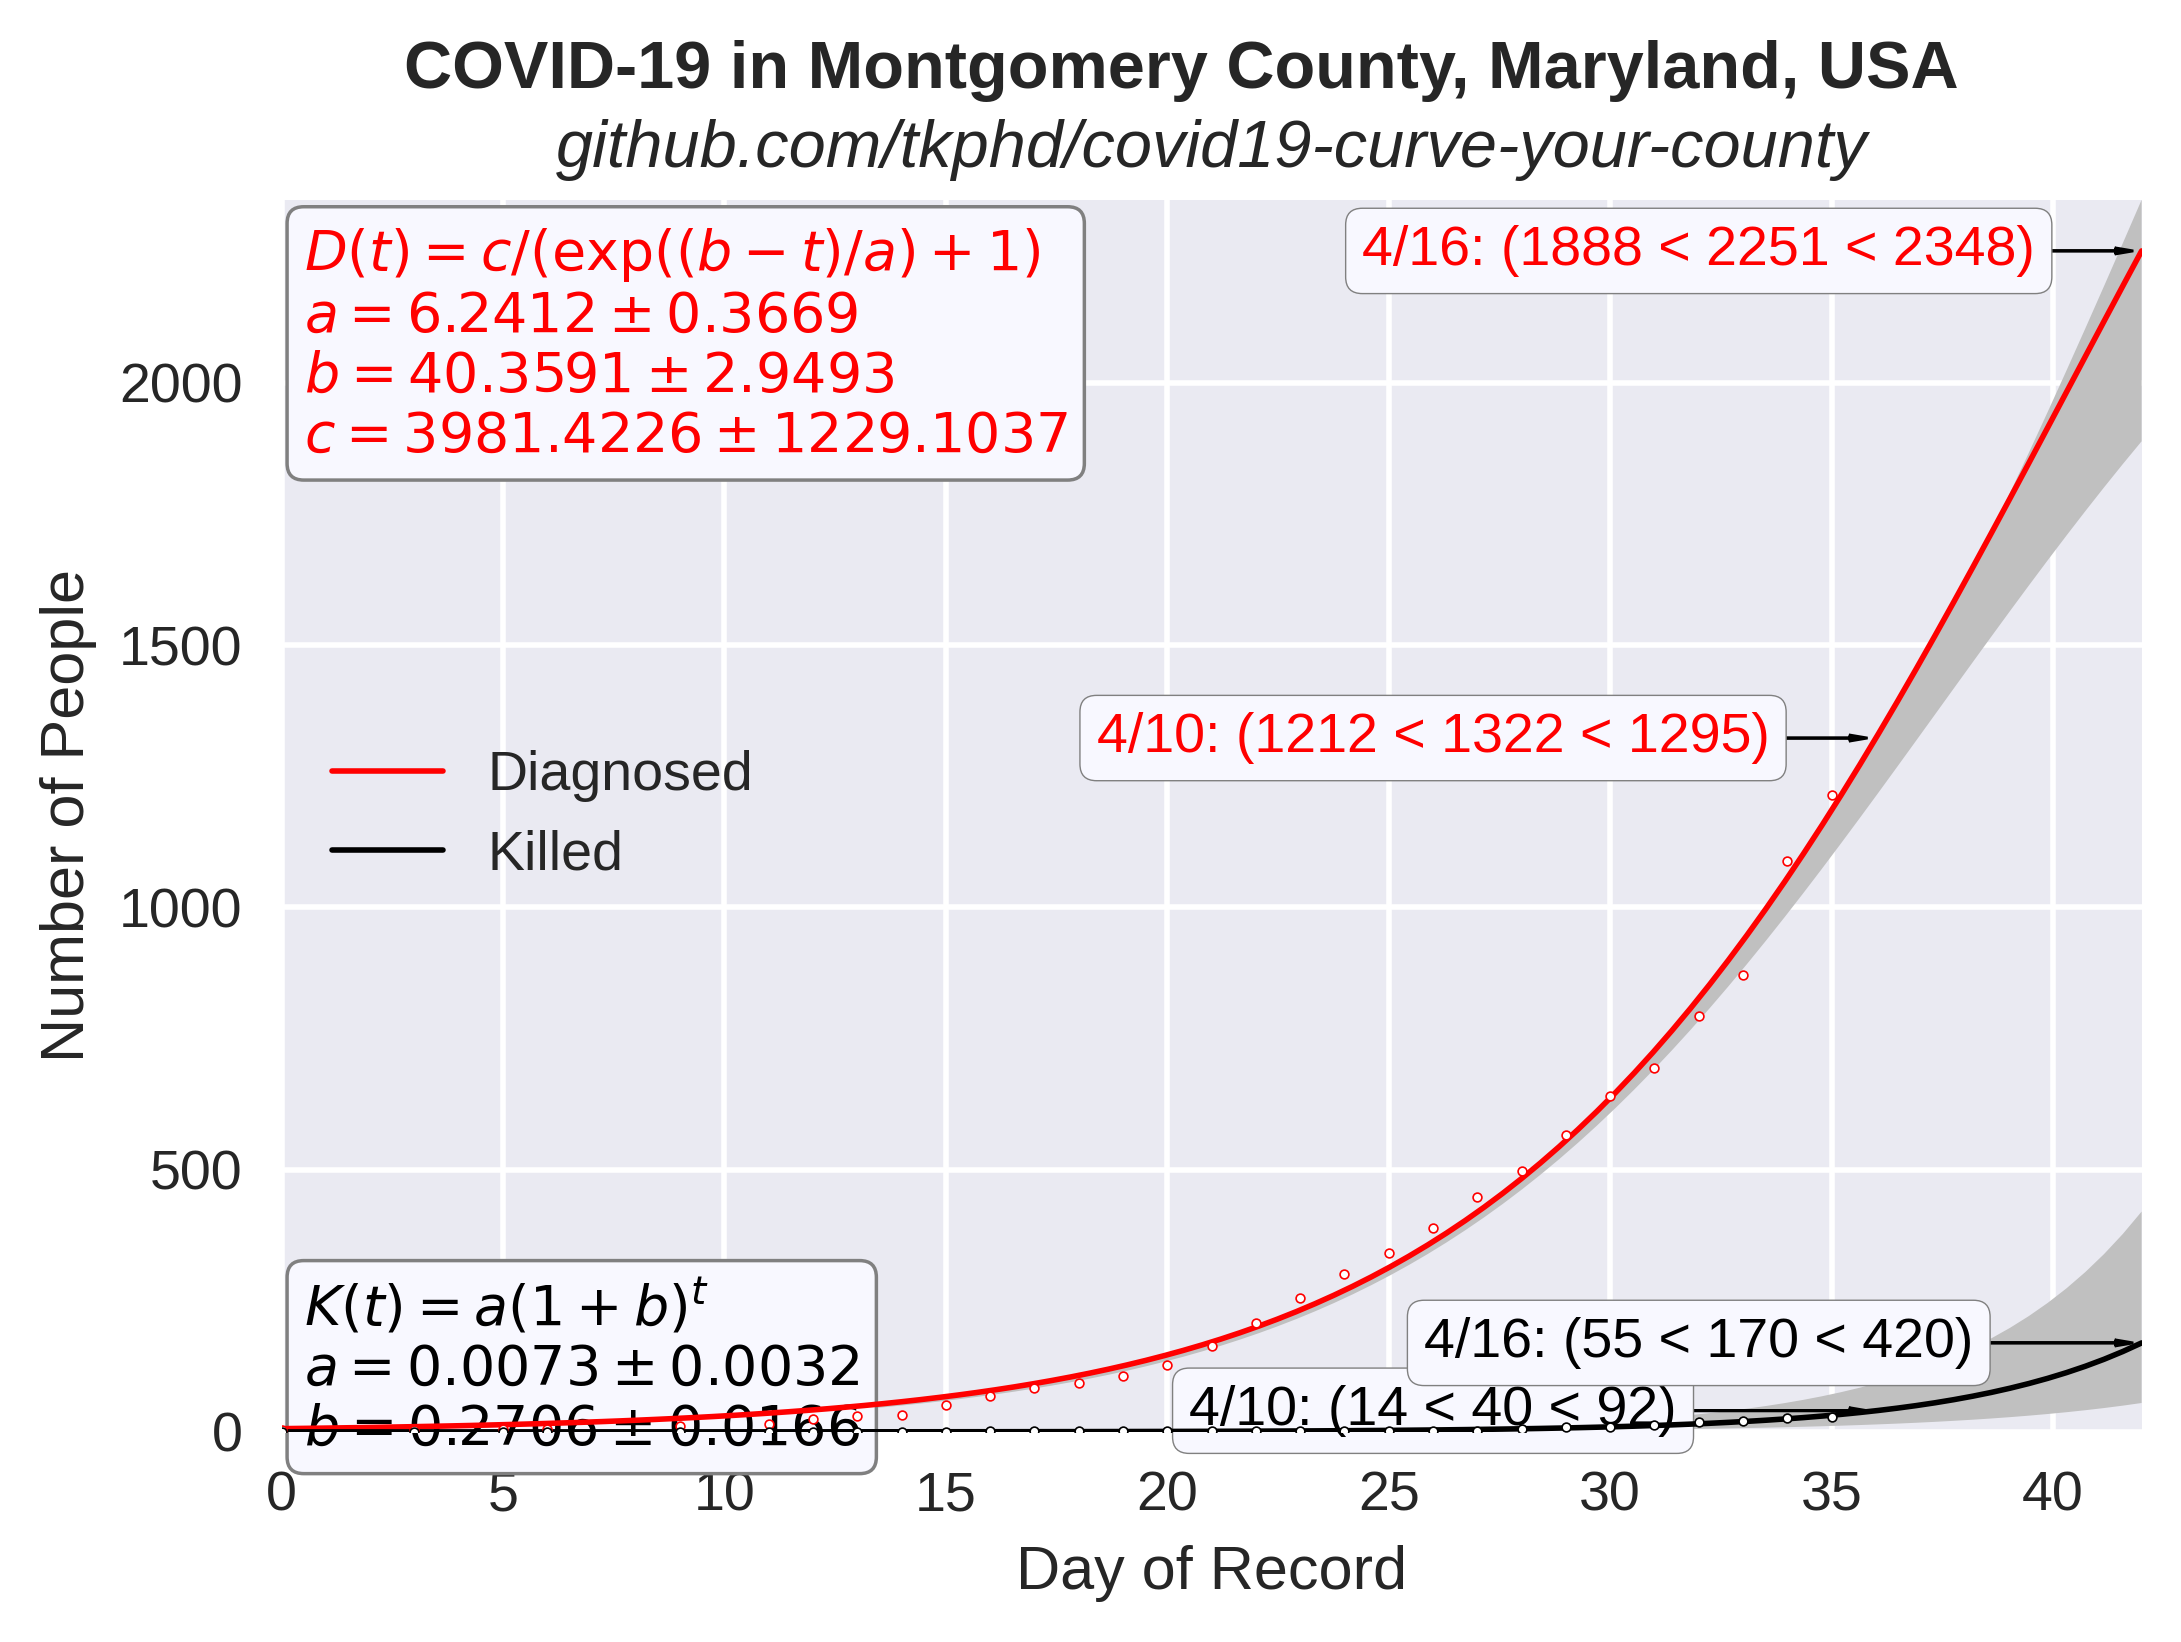
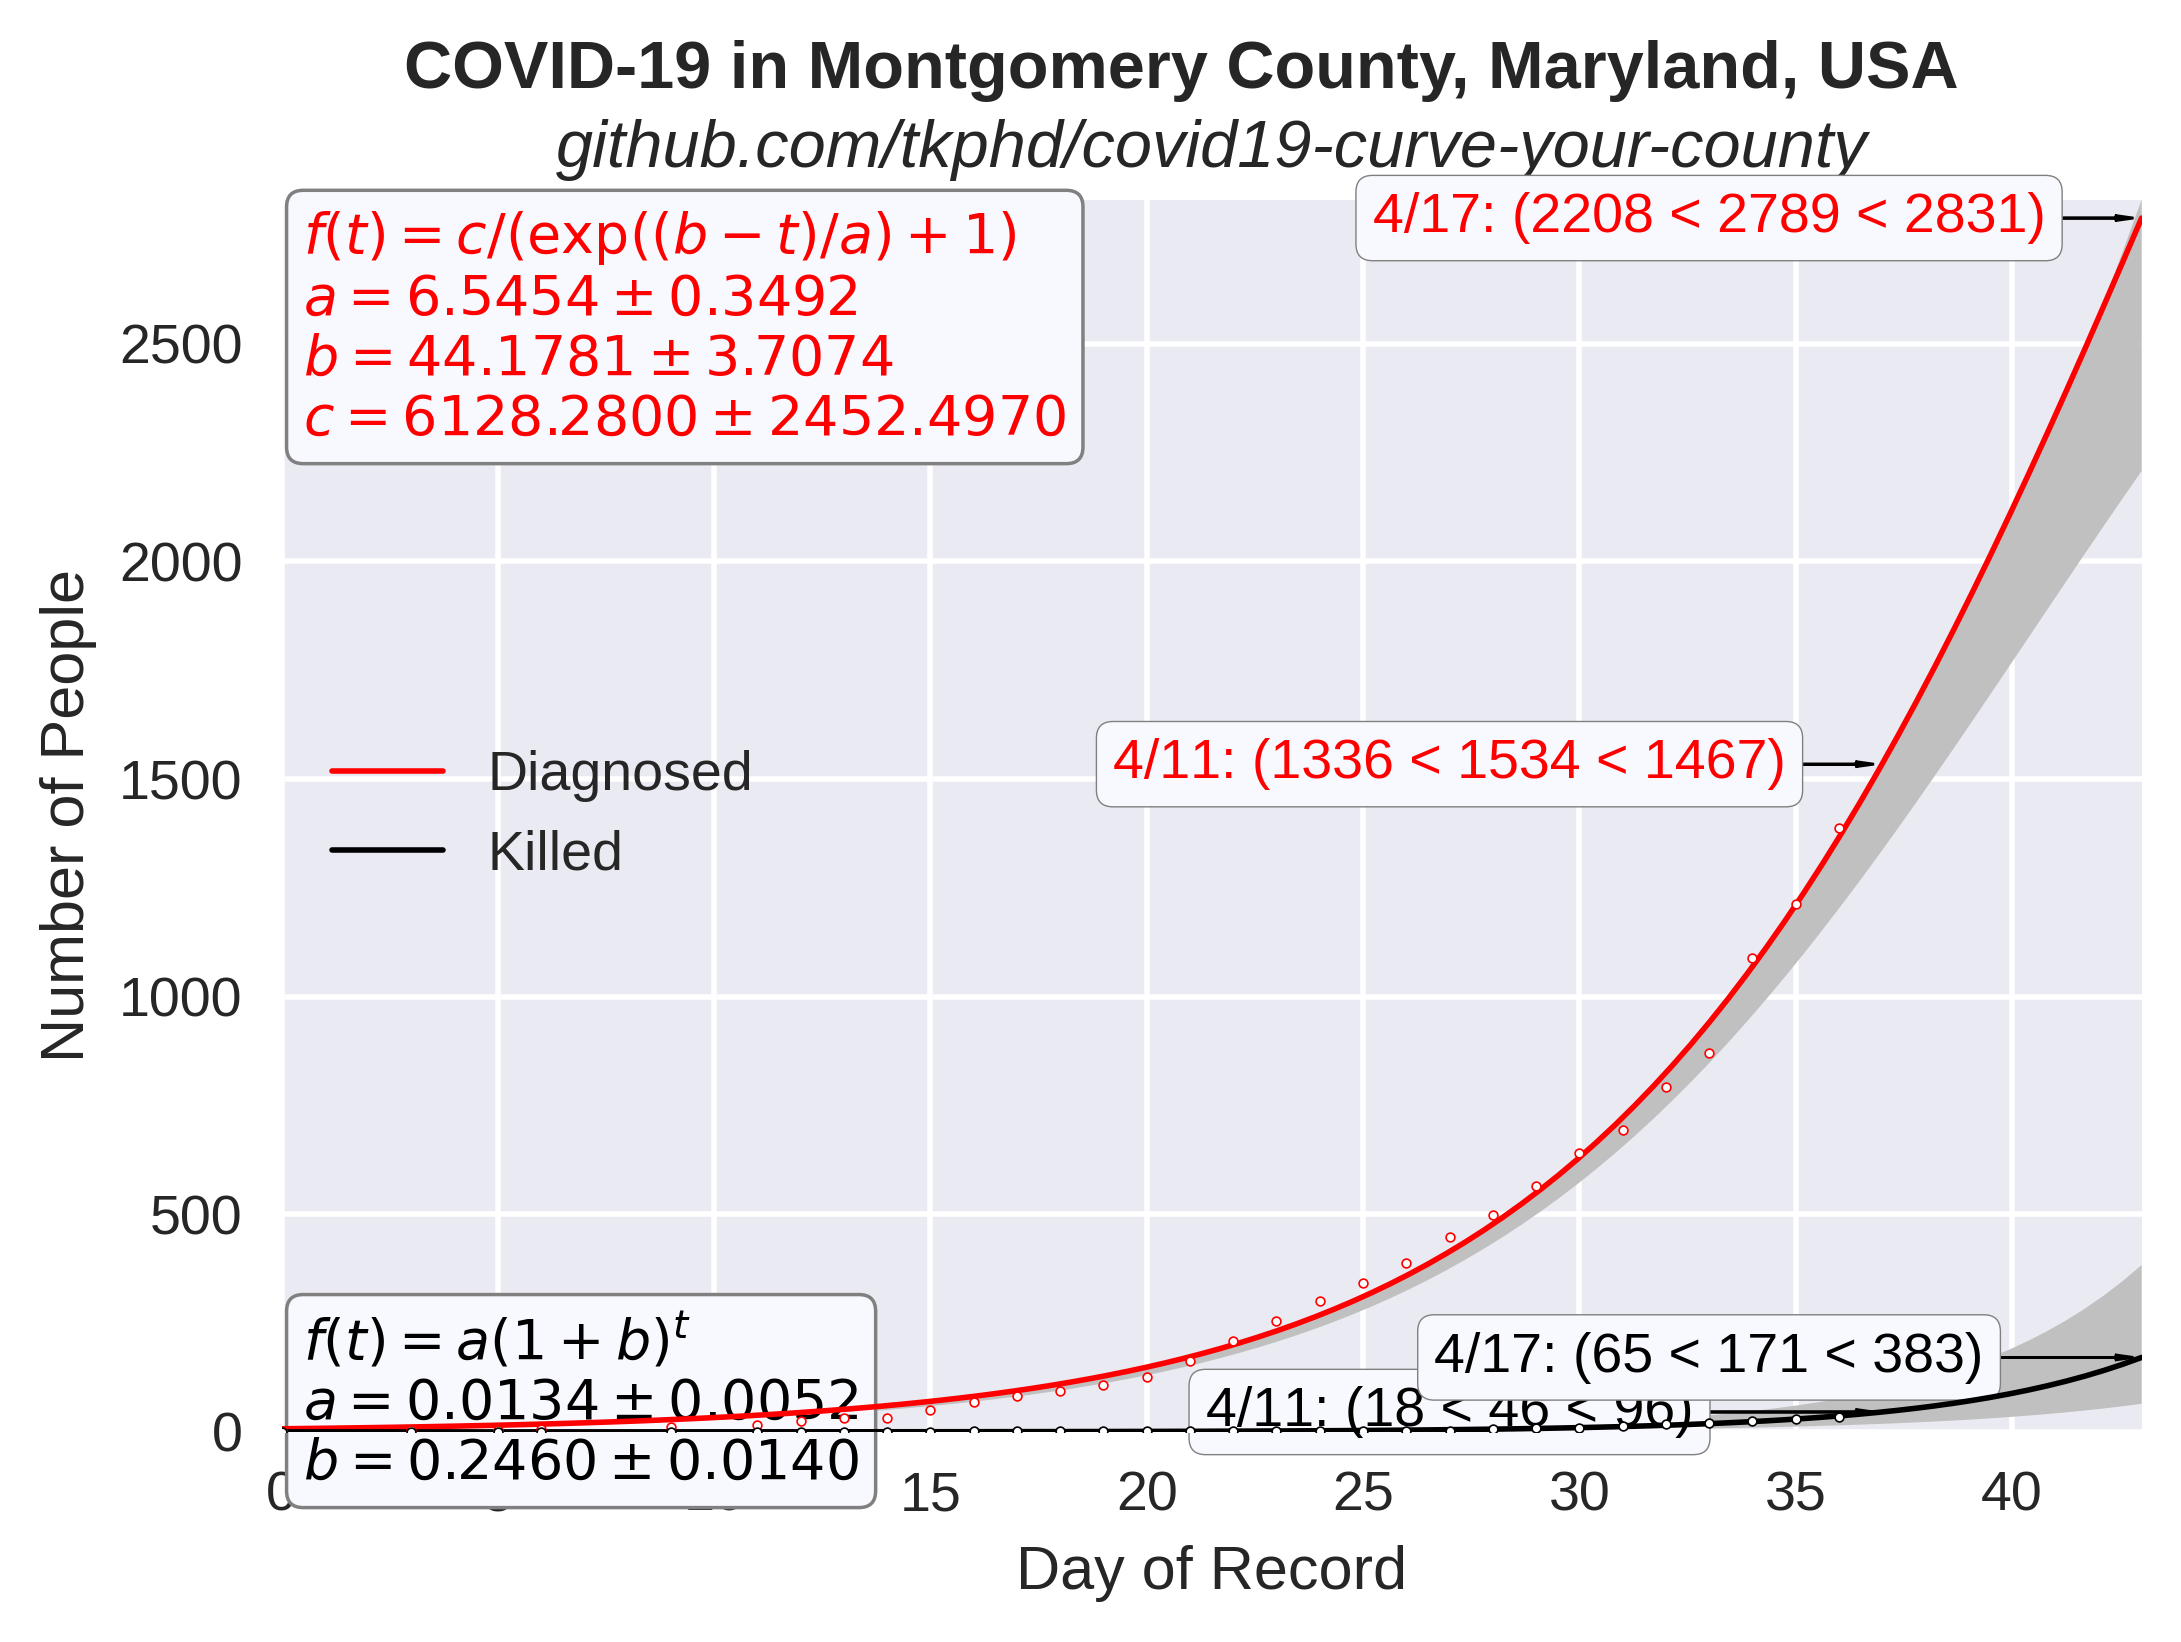
2020-04-10 update

diff --git a/exponential.py b/exponential.py
@@ -9,8 +9,8 @@ columns = ["diagnosed", "killed"]
 models = {"diagnosed": "log",
           "killed": "exp"}
 
-equations = {"diagnosed": "$D(t) = c / (\exp((b - t)/a) + 1)$\n$a = {0:.4f} \pm {3:.4f}$\n$b = {1:.4f} \pm {4:.4f}$\n$c = {2:.4f} \pm {5:.4f}$",
-             "killed": "$K(t) = a (1 + b)^t$\n$a = {0:.4f} \pm {2:.4f}$\n$b = {1:.4f} \pm {3:.4f}$"}
+equations = {"exp": "$f(t) = a (1 + b)^t$\n$a = {0:.4f} \pm {2:.4f}$\n$b = {1:.4f} \pm {3:.4f}$",
+             "log": "$f(t) = c / (\exp((b - t)/a) + 1)$\n$a = {0:.4f} \pm {3:.4f}$\n$b = {1:.4f} \pm {4:.4f}$\n$c = {2:.4f} \pm {5:.4f}$"}
 
 # Set colors for the plot
 
@@ -159,7 +159,7 @@ for key in columns:
 
     # Overlay model on plot
     plt.text(0.5, 0.5 * (upper[1] + y_hat[1]),
-             equations[key].format(*p, *perr),
+             equations[models[key]].format(*p, *perr),
              color=colors[key],
              va="top",
              zorder=4,
